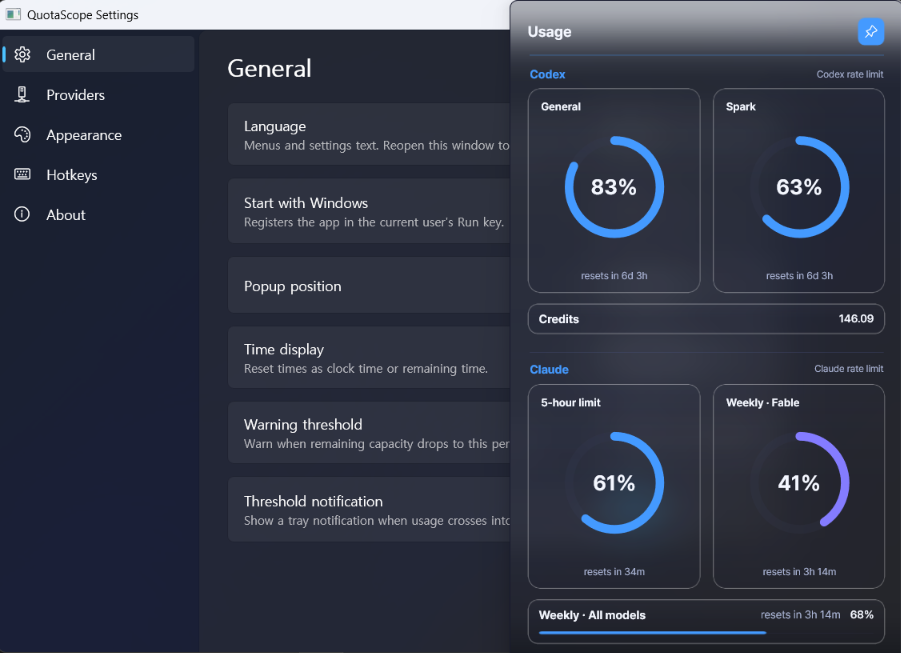
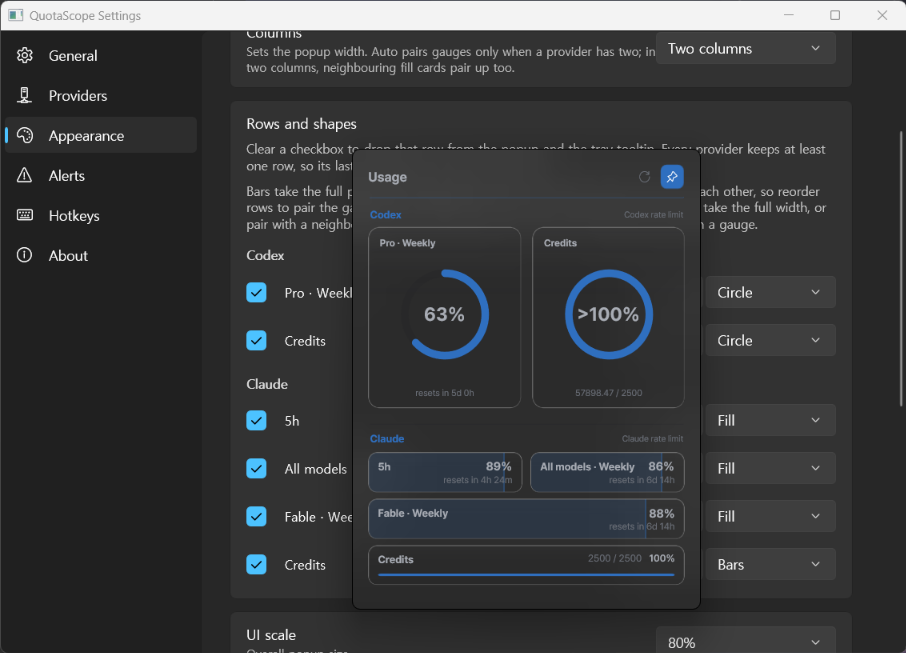
docs: retake the Windows screenshots for v1.1
New popup, settings, light theme, glassmorphism, and compact one-column
fill screenshots, in English. The screenshot table gains a third column
for the compact popup. quota-scope-90.png and quota-scope-150.png stay
for now: the v1.0.0 release page links to them on main.

diff --git a/README.md b/README.md
@@ -15,13 +15,13 @@ For Codex it starts `codex app-server` locally and reads rate limit data through
 
 ## Screenshots
 
-<img src="docs/images/quota-scope.png" alt="QuotaScope usage popup next to the settings window" width="900">
+<img src="docs/images/quota-scope.png" alt="QuotaScope usage popup over the settings window, mixing gauges, fill cards, and a bar" width="900">
 
-| Popup at 90% UI scale | Glassmorphism at 150% UI scale |
-|---|---|
-| <img src="docs/images/quota-scope-90.png" alt="QuotaScope popup showing Codex and Claude usage" width="330"> | <img src="docs/images/quota-scope-150.png" alt="QuotaScope popup with glassmorphism showing the desktop through the panes" width="330"> |
+| Light theme | Glassmorphism | Fill cards, one column |
+|---|---|---|
+| <img src="docs/images/quota-scope-light.png" alt="QuotaScope popup in the light theme showing Codex and Claude usage" width="280"> | <img src="docs/images/quota-scope-glass.png" alt="QuotaScope popup with glassmorphism showing the desktop through the panes" width="280"> | <img src="docs/images/quota-scope-compact.png" alt="Compact one-column QuotaScope popup with every row as a fill card" width="160"> |
 
-Layout is configurable per row — which rows show, gauges, bars, ordering, and column count:
+Layout is configurable per row — which rows show, gauges, bars, fill cards, ordering, and column count:
 
 <img src="docs/images/quota-scope-settings.png" alt="Appearance settings with mix and match shapes per row" width="640">
 

diff --git a/README.ko.md b/README.ko.md
@@ -15,13 +15,13 @@ Codex는 로컬에서 `codex app-server`를 실행해 stdio JSON-RPC로 rate lim
 
 ## 스크린샷
 
-<img src="docs/images/quota-scope.png" alt="QuotaScope 사용량 팝업과 설정창" width="900">
+<img src="docs/images/quota-scope.png" alt="게이지, 채우기 카드, 막대를 섞은 QuotaScope 사용량 팝업과 설정창" width="900">
 
-| UI 크기 90% 팝업 | 글래스모피즘 + UI 크기 150% |
-|---|---|
-| <img src="docs/images/quota-scope-90.png" alt="Codex와 Claude 사용량을 표시하는 QuotaScope 팝업" width="330"> | <img src="docs/images/quota-scope-150.png" alt="배경이 비치는 글래스모피즘 적용 팝업" width="330"> |
+| 라이트 테마 | 글래스모피즘 | 채우기 카드, 1열 |
+|---|---|---|
+| <img src="docs/images/quota-scope-light.png" alt="Codex와 Claude 사용량을 표시하는 라이트 테마 QuotaScope 팝업" width="280"> | <img src="docs/images/quota-scope-glass.png" alt="배경이 비치는 글래스모피즘 적용 팝업" width="280"> | <img src="docs/images/quota-scope-compact.png" alt="모든 행을 채우기 카드로 표시한 1열 컴팩트 팝업" width="160"> |
 
-레이아웃은 행 단위로 지정할 수 있습니다 — 게이지/막대, 순서, 열 수:
+레이아웃은 행 단위로 지정할 수 있습니다 — 게이지/막대/채우기, 순서, 열 수:
 
 <img src="docs/images/quota-scope-settings.png" alt="행별 모양을 지정하는 모양 설정 화면" width="640">
 
